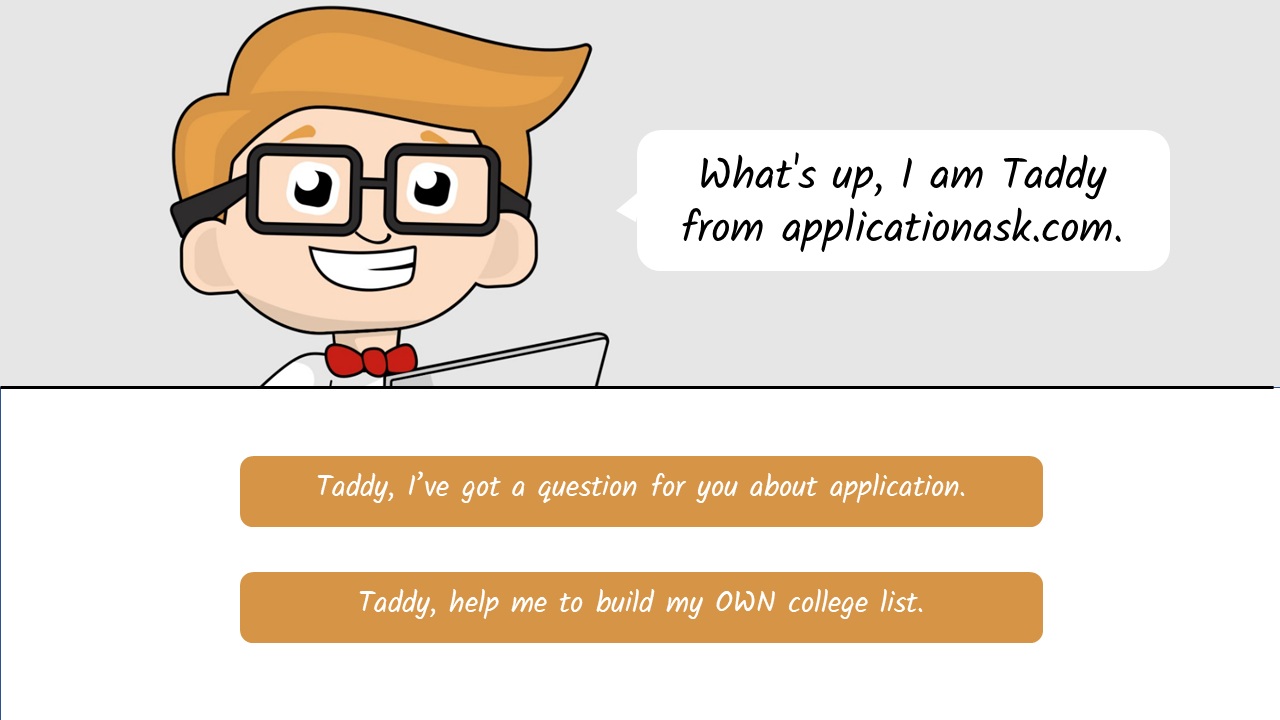
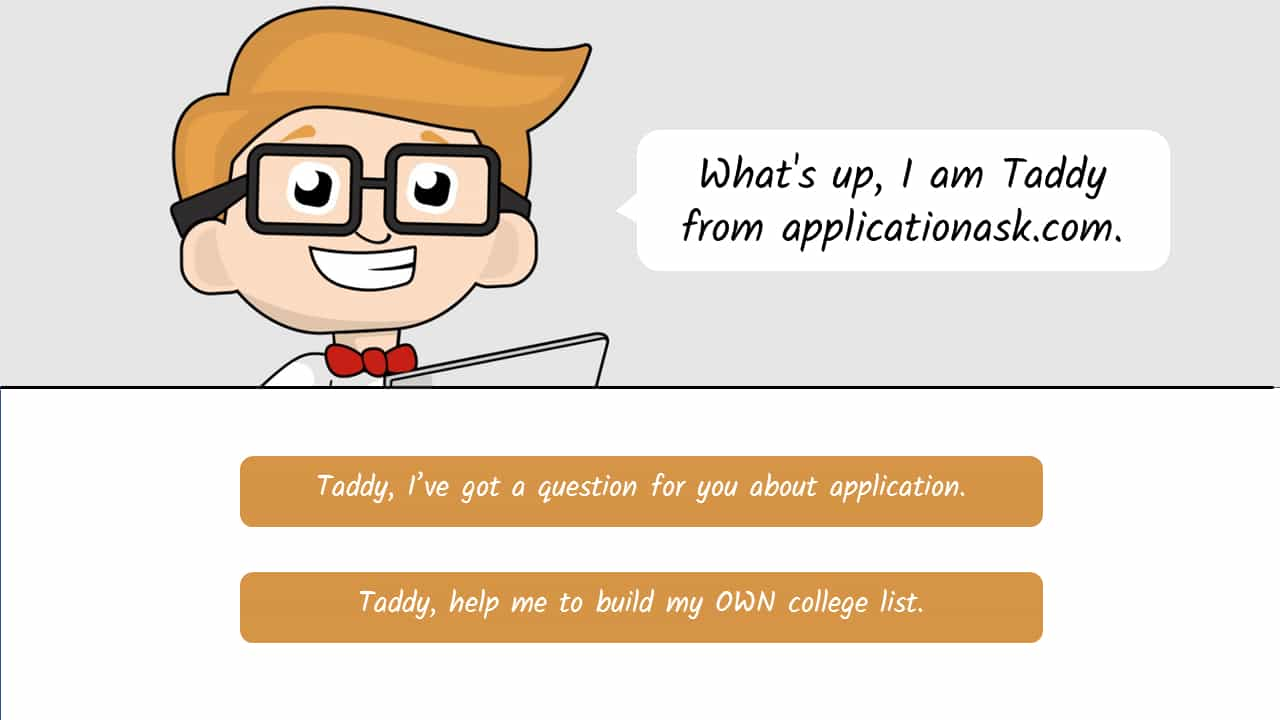
decreasing the size of the pictures

diff --git a/index.html b/index.html
@@ -27,7 +27,7 @@
             <div class="row mt-2">
                 <div class="col-sm-4">
                 <div class="card box-shadow">
-                    <img class="card-img-top" src="image/image-2.png" alt="Card image cap">
+                    <img class="card-img-top" src="image/image_2.jpg" alt="Card image cap">
                     <div class="card-body">
                         <h5 class="card-title">Project Benchmark</h5>
                         <p class="card-text">Every deadline for the project would be marked on the timeline, updates would be regularly posted.</p>
@@ -37,7 +37,7 @@
                 </div>
                 <div class="col-sm-4">
                 <div class="card box-shadow">
-                    <img class="card-img-top" src="image/taddy.png" alt="Card image cap">
+                    <img class="card-img-top" src="image/taddy.jpg" alt="Card image cap">
                     <div class="card-body">
                         <h5 class="card-title">About Applicationask.com</h5>
                         <p class="card-text">A brief description of what applicationask.com does and how will the website be developed.</p>
@@ -47,7 +47,7 @@
                 </div>
                 <div class="col-sm-4">
                 <div class="card box-shadow">
-                    <img class="card-img-top" src="image/image-3.png" alt="Card image cap">
+                    <img class="card-img-top" src="image/image_3.jpg" alt="Card image cap">
                     <div class="card-body">
                         <h5 class="card-title">About Me</h5>
                         <p class="card-text">This is my, Jialin Wu(alex)'s, resume, including my educational background, my skills, and my achievements.</p>
@@ -83,11 +83,11 @@
                   </div>
                 </div>
                 <div class="carousel-item">
-                  <img class="d-block w-100" src="image/t1.jpg" alt="Third slide">
+                  <img class="d-block w-100" src="image/school-list.jpg" alt="Third slide">
                   <div class="carousel-caption d-none d-md-block"> 
                     <a class="text-white" style="text-decoration: none;" href="third-update.html"> 
                     <h5>The Third Update</h5>
-                    <p>...</p>
+                    <p>Some Screen Shots of the process</p>
                   </div>
                 </a>
                 </div>

diff --git a/third-update.html b/third-update.html
@@ -17,11 +17,13 @@
 <div class="jumbotron jumbotron-fluid mt-5">
   <div class="container">
     <h1 class="display-4">Third Update of Applicationask.com</h1>
-    <p class="lead">The Preview Page of Applicationask.com
+    <p class="lead">The Preview Page of Applicationask.com & Screen Shots
 	</p>
   </div>
 </div>
-<h3 class="font-weight-normal">Working On...</h3>
+<div class="container text-center">
+<img src="image/code_update.jpg" alt="screenshots" style="width:80%;">
+</div>
 	
 </body>
 </html>
